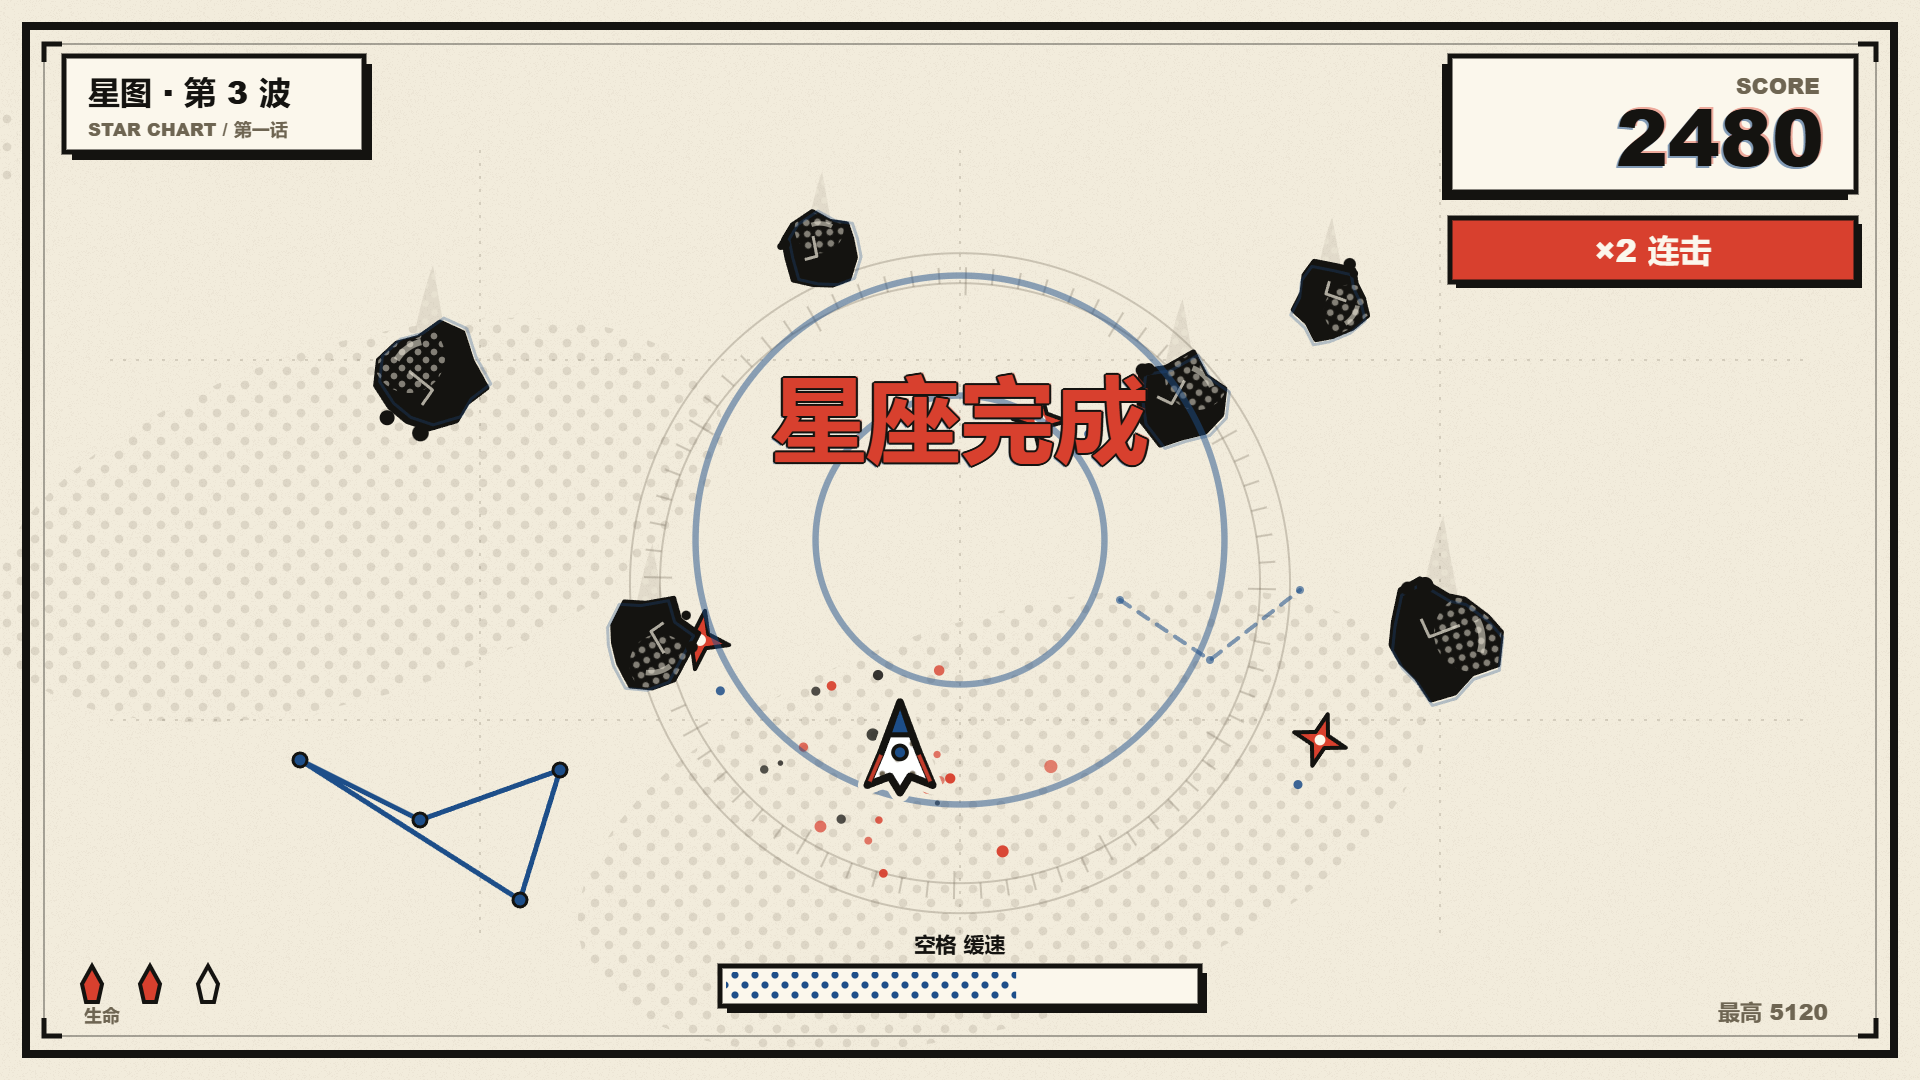
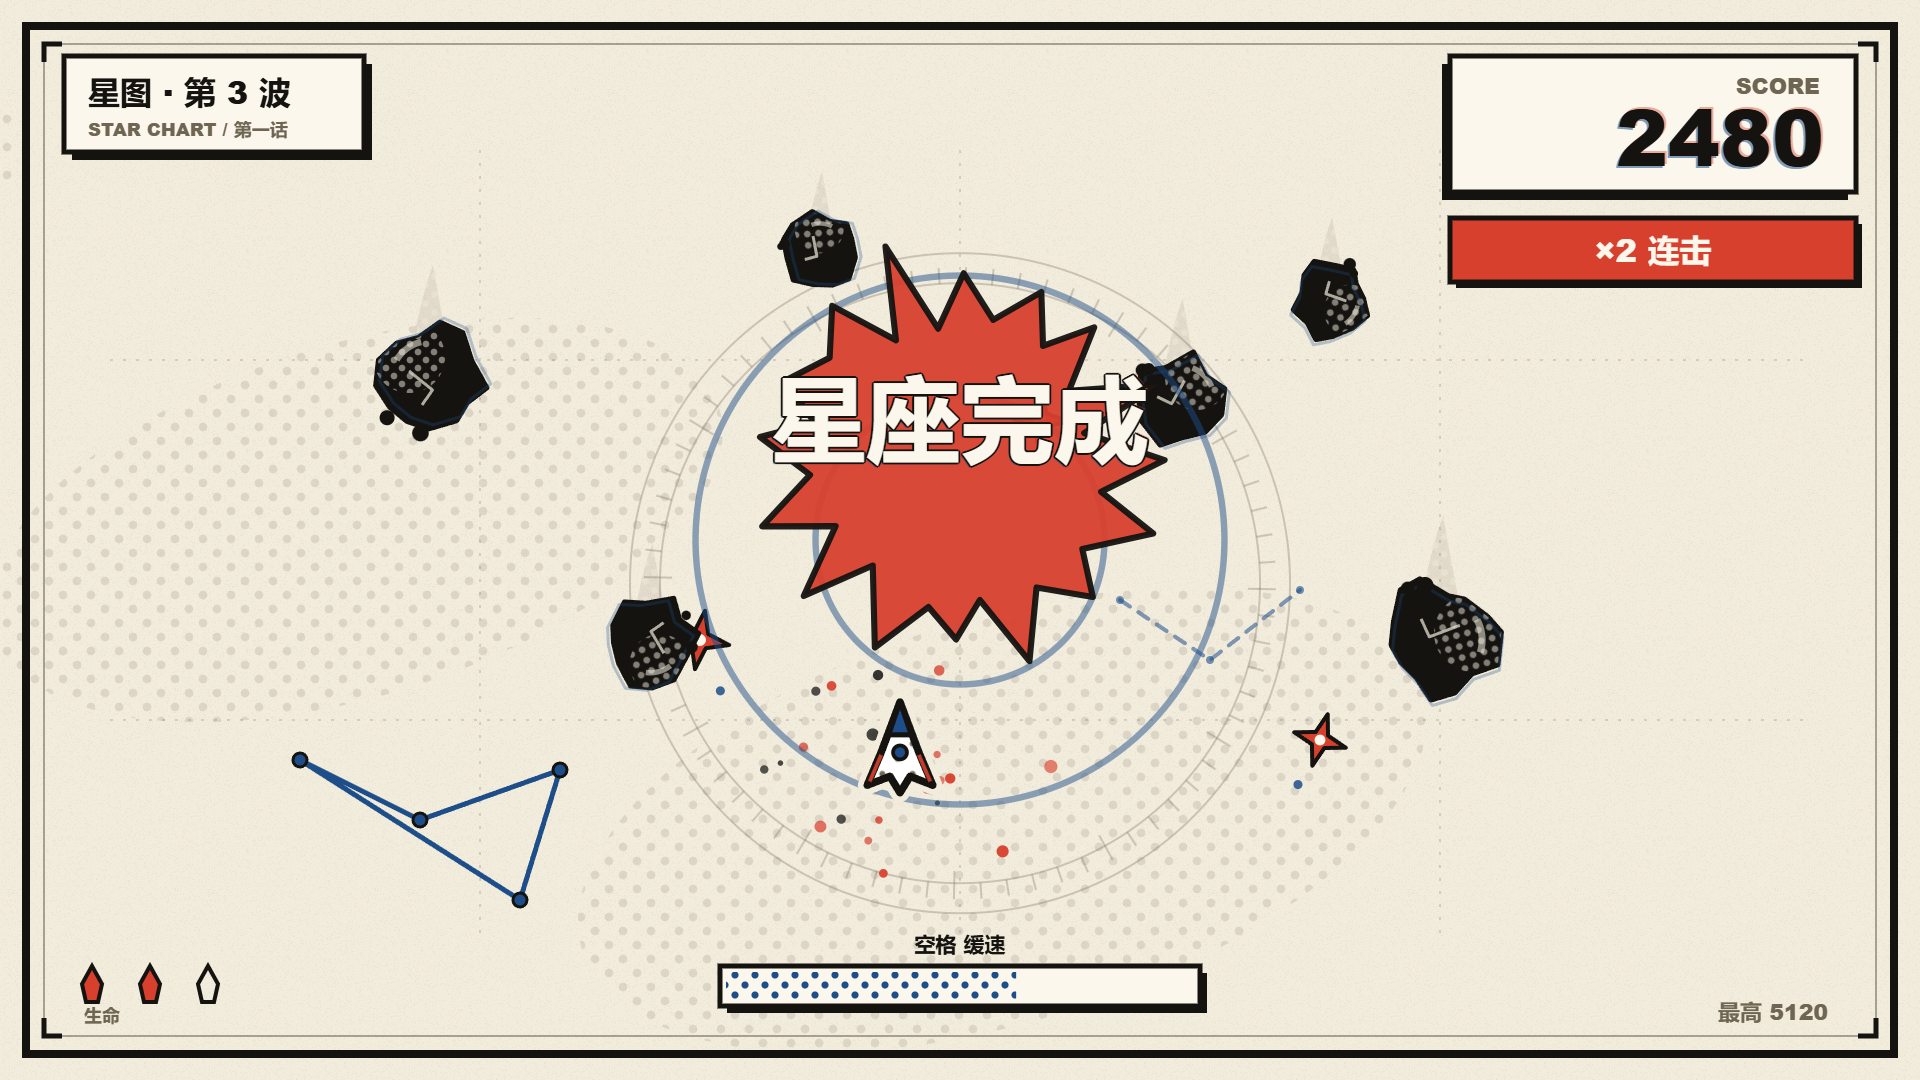
feat: comic starburst on constellation clear and crash

Changed region(s): [[0.375, 0.2139, 0.625, 0.6111]]

diff --git a/js/game.js b/js/game.js
@@ -62,8 +62,8 @@
       });
     }
   }
-  function popup(x, y, text, size, color) {
-    G.pops.push({ x: x, y: y, text: text, life: 0.95, max: 0.95, size: size || 44, color: color || C.ink });
+  function popup(x, y, text, size, color, burst) {
+    G.pops.push({ x: x, y: y, text: text, life: 0.95, max: 0.95, size: size || 44, color: color || C.ink, burst: !!burst });
   }
   function banner(text, sub) {
     G.banner = { text: text, sub: sub || '', life: 1.9, max: 1.9 };
@@ -116,7 +116,7 @@
     G.hitstop = 0.075;
     G.combo = 0; G.comboTimer = 0;
     burst(G.ship.x, G.ship.y, 26, [C.ink, C.accent, C.accent2], 520, 0.75);
-    popup(G.ship.x, G.ship.y - 70, 'CRASH!', 64, C.accent);
+    popup(G.ship.x, G.ship.y - 70, 'CRASH!', 64, C.surface, true);
     SC.Audio.hit();
     if (G.lives <= 0) gameOver();
   }
@@ -511,6 +511,13 @@
       g.globalAlpha = Math.min(1, (1 - k) * 2.2);
       g.translate(p.x, p.y - k * 46);
       g.scale(scale * (1 + k * 0.06), scale * (1 + k * 0.06));
+      if (p.burst) {
+        var br = p.size * 2.1;
+        g.save();
+        g.globalAlpha = Math.min(1, (1 - k) * 3) * 0.95;
+        SC.printShape(g, SC.burstPts(0, 0, br, br * 0.72, 16, p.size), { fill: C.accent, lw: 6 });
+        g.restore();
+      }
       SC.comicText(g, p.text, 0, 0, { size: p.size, color: p.color, align: 'center', lineWidth: Math.max(3, p.size * 0.045) });
       g.restore();
     }
@@ -870,7 +877,7 @@
     }
     if (name === 'clear') {
       base.score = 2480; base.shownScore = 2480;
-      base.pops.push({ x: W / 2, y: 470, text: '星座完成', life: 0.6, max: 0.95, size: 92, color: C.accent });
+      base.pops.push({ x: W / 2, y: 470, text: '星座完成', life: 0.6, max: 0.95, size: 92, color: C.surface, burst: true });
       base.banner = null;
       base.parts.push({ ring: true, x: W / 2, y: H / 2, r0: 60, life: 0.8, max: 0.9, color: C.accent2 });
       base.parts.push({ ring: true, x: W / 2, y: H / 2, r0: 180, life: 0.8, max: 0.9, color: C.accent2 });
